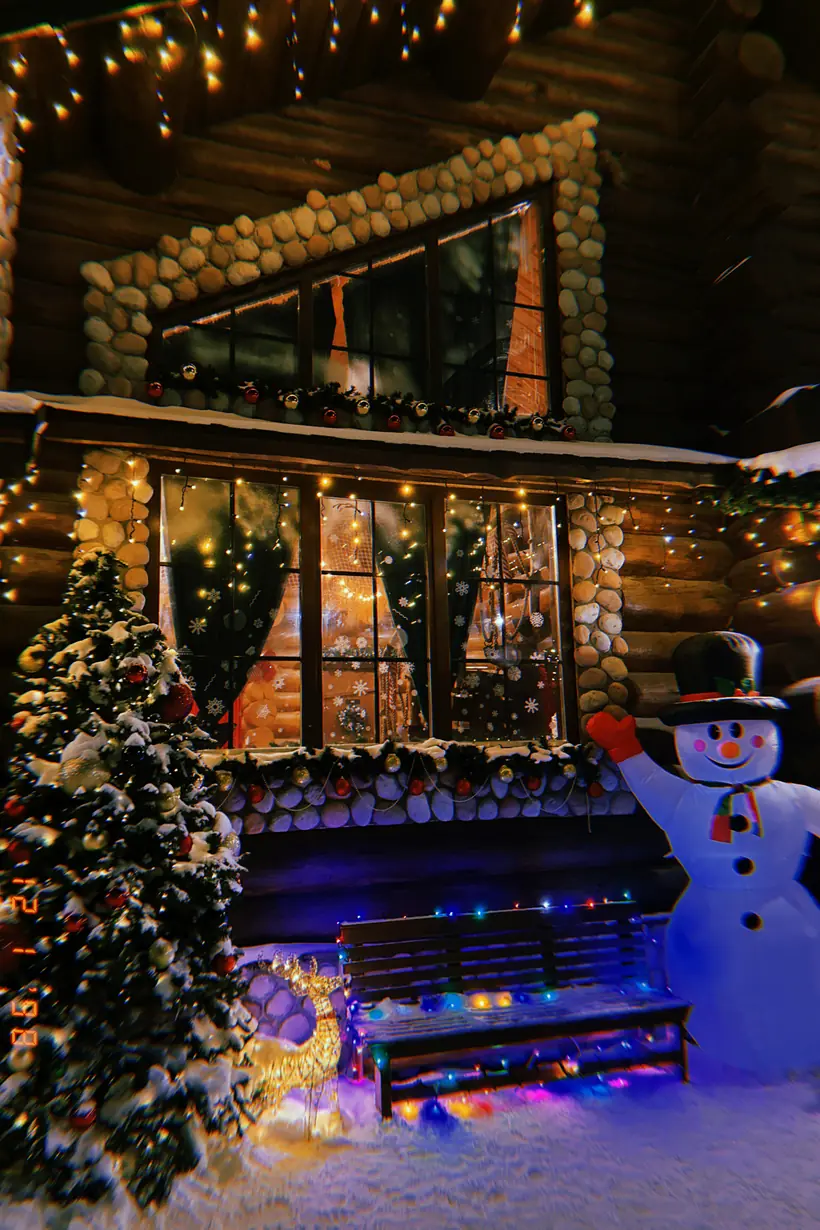
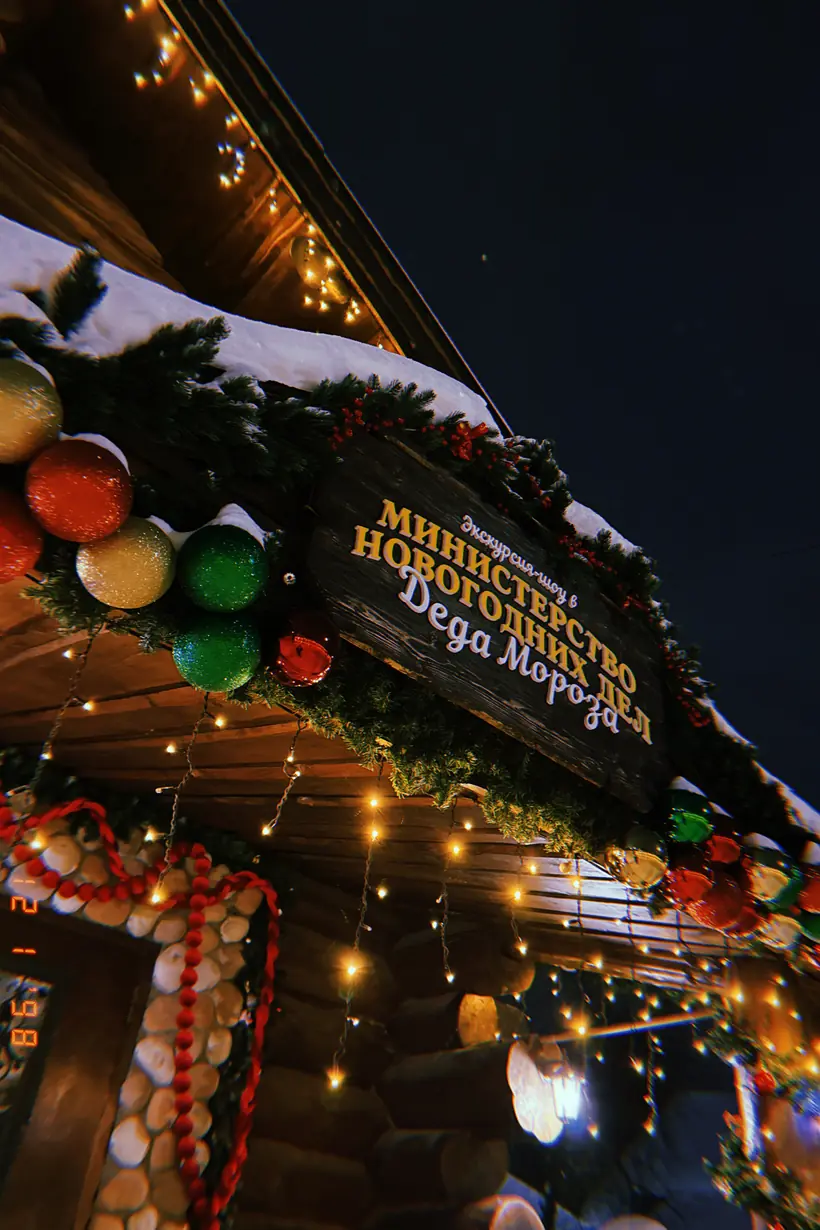
Экран 7: третий кадр первого слайда заменён
Серёга положил в «1 слайд» другой 3.JPG — вывеску Министерства вместо
снеговика у скамейки. Первые два кадра не изменились: пересборка по номерам
дала те же файлы бит в бит, поэтому в коммите только третий.

diff --git a/v2.html b/v2.html
@@ -2667,7 +2667,7 @@ html.zs-lock .nav{margin-right:var(--zs-sbw,0px)}
         <div class="kr-slide">
           <figure class="kr-shot" data-th="karus_v/m01.webp"><img src="karus_v/v01.webp" width="820" height="1230" alt="Изба в гирляндах: ёлка и скамейка у входа" loading="eager" decoding="async" sizes="(max-width:767px) 45vw, min(32vw, 400px)" draggable="false"></figure>
           <figure class="kr-shot" data-th="karus_v/m02.webp"><img src="karus_v/v02.webp" width="820" height="1230" alt="Заснеженный двор с ёлками и снеговиком" loading="eager" decoding="async" sizes="(max-width:767px) 45vw, min(32vw, 400px)" draggable="false"></figure>
-          <figure class="kr-shot" data-th="karus_v/m03.webp"><img src="karus_v/v03.webp" width="820" height="1230" alt="Снеговик и скамейка у окон избы" loading="eager" decoding="async" sizes="(max-width:767px) 45vw, min(32vw, 400px)" draggable="false"></figure>
+          <figure class="kr-shot" data-th="karus_v/m03.webp"><img src="karus_v/v03.webp" width="820" height="1230" alt="Вывеска Министерства новогодних дел под гирляндами" loading="eager" decoding="async" sizes="(max-width:767px) 45vw, min(32vw, 400px)" draggable="false"></figure>
         </div>
         <div class="kr-slide kr-slide--hor">
           <figure class="kr-shot kr-shot--hor" data-th="karus_v/hm01.webp"><img src="karus_v/h01.webp" width="1400" height="933" alt="Изба Министерства в новогодней подсветке" loading="lazy" decoding="async" sizes="(max-width:767px) 100vw, min(50vw, 620px)" draggable="false"></figure>
@@ -2743,7 +2743,7 @@ html.zs-lock .nav{margin-right:var(--zs-sbw,0px)}
     <div class="kr-thumbs" id="krThumbs" aria-label="Кадры площадки">
       <button class="kr-th is-on" type="button" data-i="0" aria-label="Слайд 1: Изба в гирляндах: ёлка и скамейка у входа"><img src="karus_v/m01.webp" width="220" height="330" alt="" loading="eager" decoding="async" draggable="false"></button>
       <button class="kr-th is-on" type="button" data-i="0" aria-label="Слайд 1: Заснеженный двор с ёлками и снеговиком"><img src="karus_v/m02.webp" width="220" height="330" alt="" loading="eager" decoding="async" draggable="false"></button>
-      <button class="kr-th is-on" type="button" data-i="0" aria-label="Слайд 1: Снеговик и скамейка у окон избы"><img src="karus_v/m03.webp" width="220" height="330" alt="" loading="eager" decoding="async" draggable="false"></button>
+      <button class="kr-th is-on" type="button" data-i="0" aria-label="Слайд 1: Вывеска Министерства новогодних дел под гирляндами"><img src="karus_v/m03.webp" width="220" height="330" alt="" loading="eager" decoding="async" draggable="false"></button>
       <button class="kr-th kr-th--hor" type="button" data-i="1" aria-label="Слайд 2: Изба Министерства в новогодней подсветке"><img src="karus_v/hm01.webp" width="300" height="200" alt="" loading="lazy" decoding="async" draggable="false"></button>
       <button class="kr-th kr-th--hor" type="button" data-i="1" aria-label="Слайд 2: Гости у крыльца избы вечером"><img src="karus_v/hm02.webp" width="300" height="200" alt="" loading="lazy" decoding="async" draggable="false"></button>
       <button class="kr-th" type="button" data-i="2" aria-label="Слайд 3: Фасад избы с ёлками и снеговиком"><img src="karus_v/m04.webp" width="220" height="330" alt="" loading="lazy" decoding="async" draggable="false"></button>
